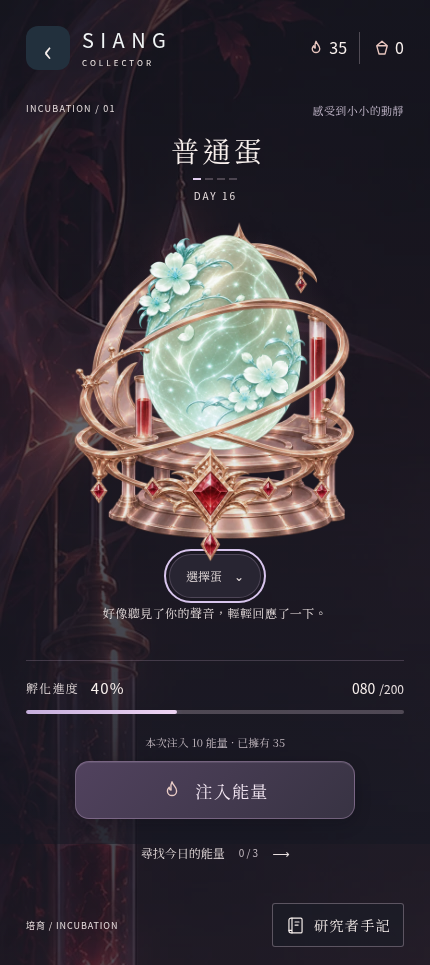
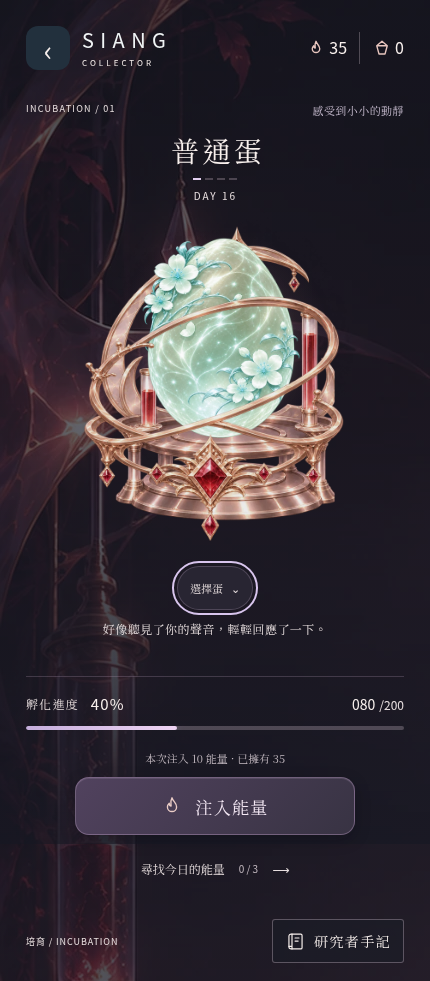
Give egg selector clear spacing beneath smaller incubation cradle

diff --git a/css/incubation.css b/css/incubation.css
@@ -7,7 +7,7 @@ body[data-view="incubate"] .app { min-height:100svh; height:auto; overflow:visib
 .view--incubate .eggtitle__name { font-size:28px; }
 .view--incubate .eggtitle__meta { display:flex; flex-direction:column; align-items:flex-end; gap:8px; }
 .view--incubate .stage { flex:none; width:100%; height:clamp(290px,43svh,400px); min-height:0; margin:0; overflow:hidden; }
-.view--incubate .incubator { width:min(125cqw,145cqh); max-width:490px; left:50%; top:48%; }
+.view--incubate .incubator { width:min(116cqw,132cqh); max-width:460px; left:50%; top:46%; }
 .view--incubate .side,.view--incubate .motes { display:none; }
 .incubation-message { min-height:42px; margin:0 0 16px; padding:0 10px; text-align:center; color:var(--pearl); font:12px/1.9 var(--font-display); letter-spacing:.04em; }
 .view--incubate .vitals { display:grid; grid-template-columns:1fr auto; gap:12px; padding:16px 0; border-top:1px solid #b9a0bb40; border-bottom:0; }
@@ -32,7 +32,7 @@ body[data-view="incubate"] .game-footer { min-height:70px; padding-top:8px; padd
 @media(max-width:374px) { .view--incubate { padding-top:18px; } .view--incubate .eggtitle__name { font-size:25px; } }
 @media(max-height:700px) { .view--incubate .stage { height:280px; } }
 body[data-view="incubate"] { background-image:linear-gradient(180deg,#151722c9,#151722a6 45%,#151722e8),url('../assets/scene/home-bg.webp'); }
-.egg-select-entry { align-self:center; display:flex; align-items:center; gap:12px; min-height:44px; margin:-12px 0 4px; padding:8px 16px; border:1px solid #aa94b14d; border-radius:24px; background:#282532; color:var(--pearl); font:12px var(--font-display); }
+.egg-select-entry { align-self:center; display:flex; align-items:center; gap:8px; min-height:44px; margin:0 0 8px; padding:6px 12px; border:1px solid #aa94b14d; border-radius:24px; background:#282532; color:var(--pearl); font:11px var(--font-display); }
 .egg-select-entry:active { background:#43374e; }
 .egg-picker { max-height:85svh; overflow-y:auto; }
 #egg-choices { display:flex; flex-direction:column; gap:12px; }
